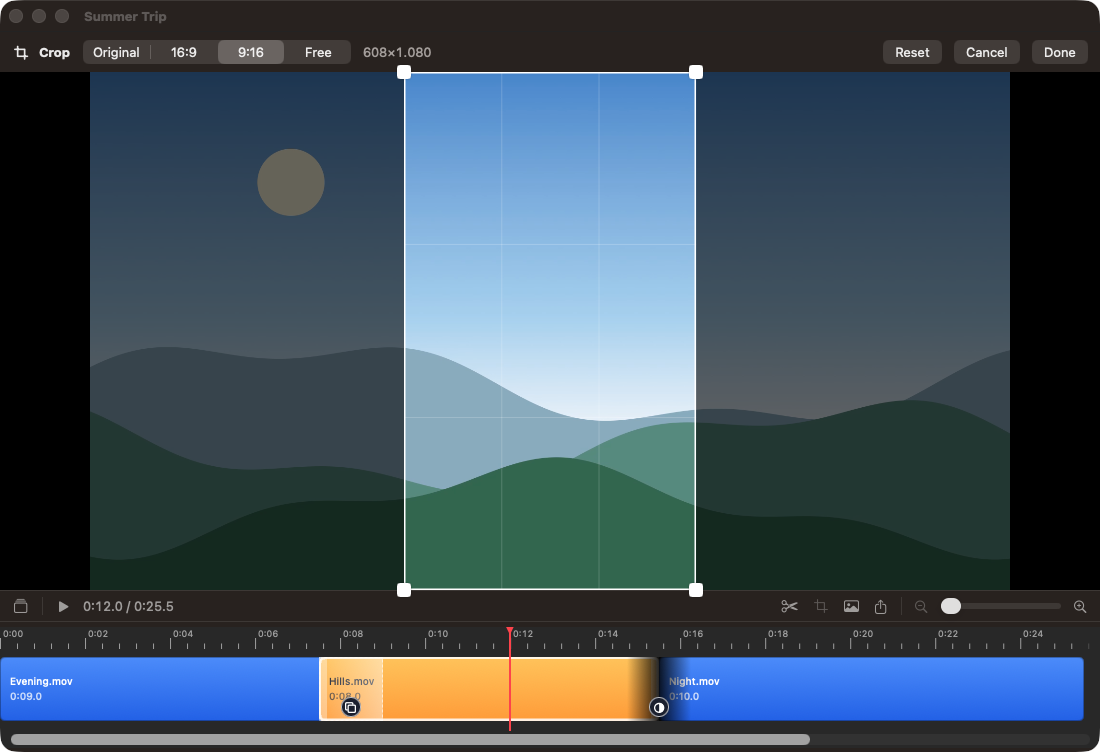
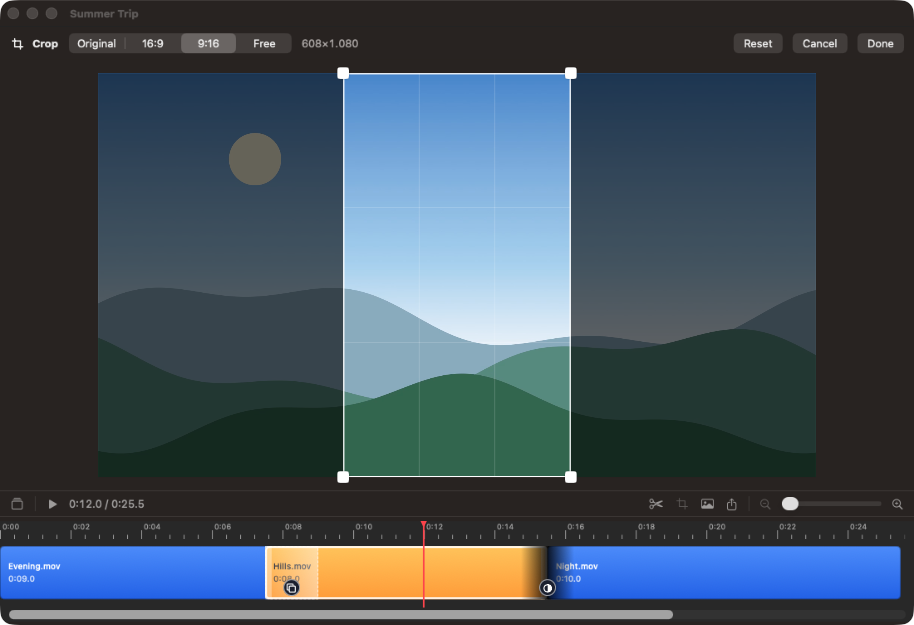
Keep the preview clear of the window edges
The player takes the video's own shape, with a margin instead of black bars.

diff --git a/BasitCut/Views/ProjectWindow.swift b/BasitCut/Views/ProjectWindow.swift
@@ -101,7 +101,6 @@ struct ProjectWindow: View {
     @ViewBuilder
     private var preview: some View {
         ZStack {
-            Color.black
             if session.project.clips.isEmpty {
                 ContentUnavailableView {
                     Label("No Clips Yet", systemImage: "film.stack")
@@ -110,19 +109,11 @@ struct ProjectWindow: View {
                 } actions: {
                     Button("Import Videos…") { session.isImporterPresented = true }
                 }
+                .frame(maxWidth: .infinity, maxHeight: .infinity)
+                .background(.black)
                 .colorScheme(.dark)
             } else {
-                PlayerView(player: session.playback.player)
-                if let draft = session.cropDraft, draft.mode != .original, let canvas = session.project.canvasSize {
-                    // Laid out like the player's aspect-fit video, so the
-                    // rectangle sits exactly on the uncropped frame.
-                    CropOverlay(
-                        rect: Binding(get: { draft.rect }, set: { session.updateCropDraft($0) }),
-                        mode: draft.mode,
-                        canvas: canvas
-                    )
-                    .aspectRatio(canvas.width / canvas.height, contentMode: .fit)
-                }
+                player
             }
             if let message = session.flashMessage {
                 Label(message, systemImage: "photo")
@@ -141,5 +132,24 @@ struct ProjectWindow: View {
         }
         .frame(maxWidth: .infinity, maxHeight: .infinity)
         .animation(.easeInOut(duration: 0.2), value: session.flashMessage)
+    }
+
+    /// The video at its own shape, with space to the window's edges.
+    private var player: some View {
+        let size = session.previewProject.renderSize ?? Size(width: 16, height: 9)
+        return PlayerView(player: session.playback.player)
+            .overlay {
+                // The player has the frame's shape, so the rectangle sits
+                // exactly on the uncropped frame.
+                if let draft = session.cropDraft, draft.mode != .original, let canvas = session.project.canvasSize {
+                    CropOverlay(
+                        rect: Binding(get: { draft.rect }, set: { session.updateCropDraft($0) }),
+                        mode: draft.mode,
+                        canvas: canvas
+                    )
+                }
+            }
+            .aspectRatio(size.width / size.height, contentMode: .fit)
+            .padding(16)
     }
 }

diff --git a/BasitCut/Session/ProjectSession.swift b/BasitCut/Session/ProjectSession.swift
@@ -445,7 +445,7 @@ final class ProjectSession {
     }
 
     /// What the preview plays: the project, uncropped while the crop is edited.
-    private var previewProject: Project {
+    var previewProject: Project {
         var preview = project
         if isEditingCrop { preview.crop = .original }
         return preview
